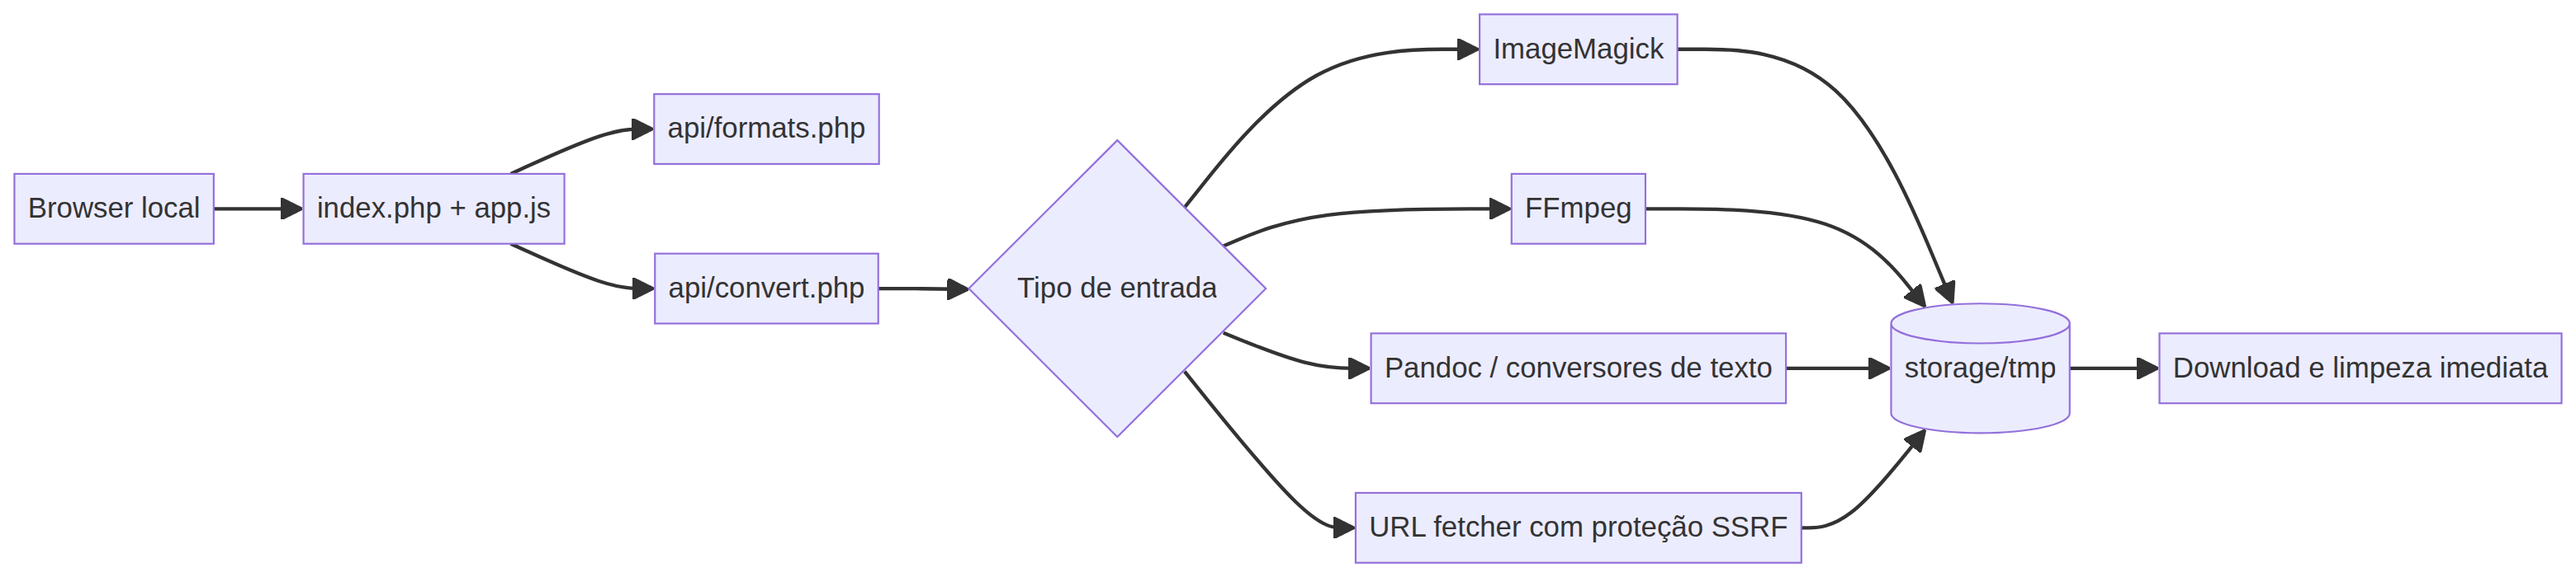
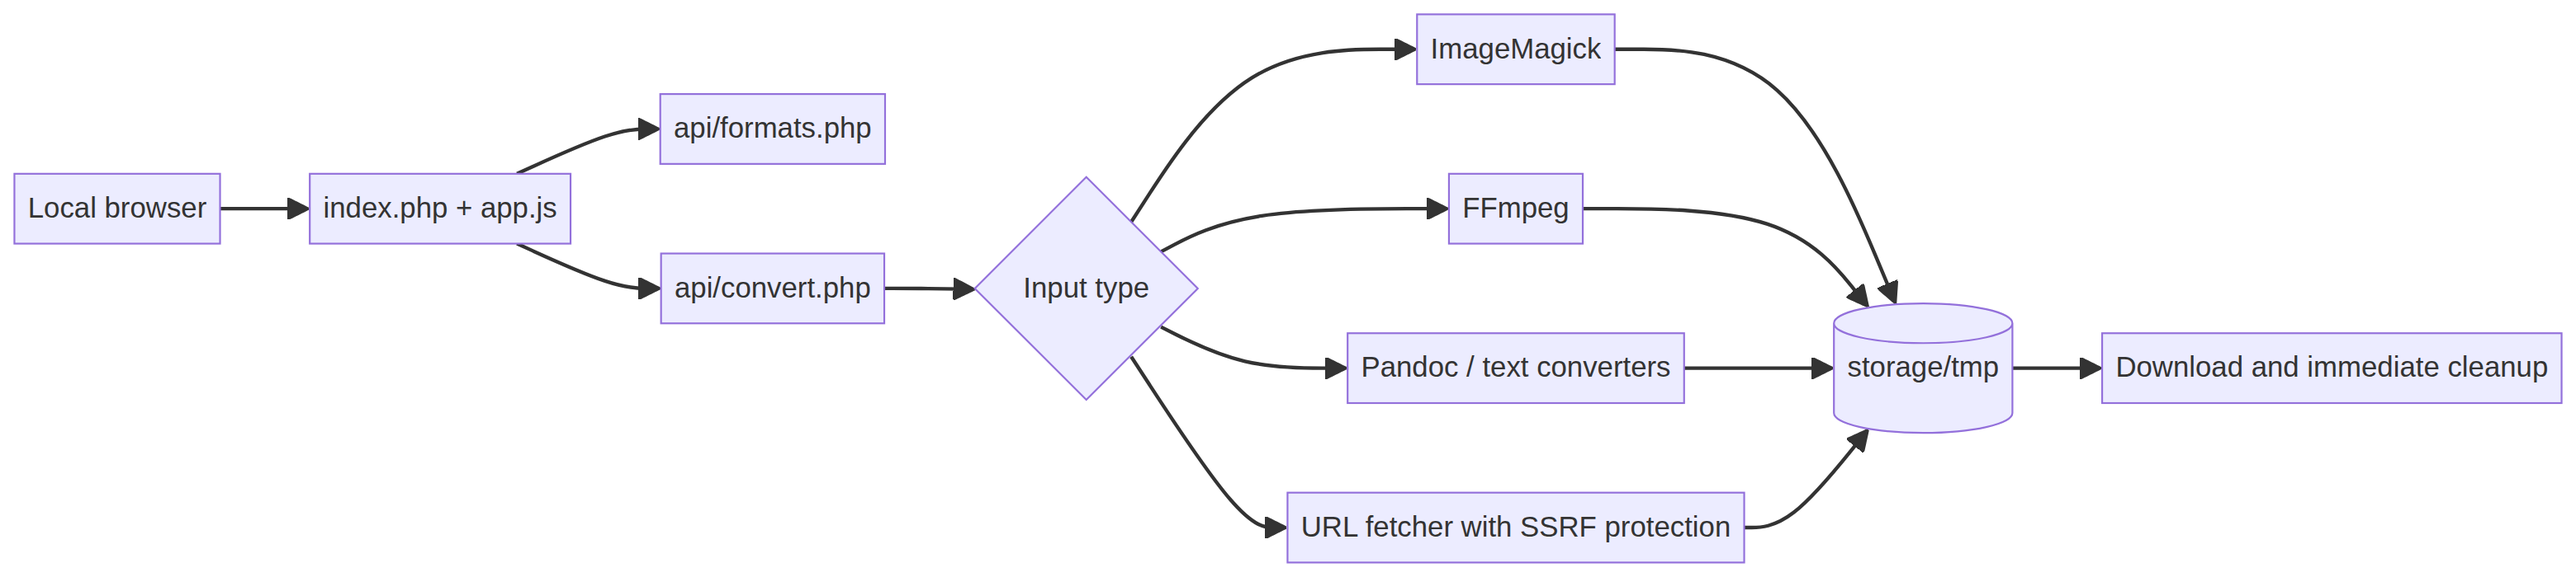
Translate architecture diagram to English

diff --git a/CHANGELOG.md b/CHANGELOG.md
@@ -6,6 +6,12 @@ All notable changes to UniversalConverter are documented in this file. This proj
 
 No unreleased changes yet.
 
+## [1.1.3] - 2026-09-23
+
+### Changed
+
+- Translated the architecture diagram labels to English so the visual documentation matches the English README and project documentation.
+
 ## [1.1.2] - 2026-09-23
 
 ### Fixed
@@ -64,7 +70,8 @@ No unreleased changes yet.
 - A maximum of five redirects and a 5 MiB URL-response limit.
 - Security headers and request-specific temporary-file cleanup.
 
-[Unreleased]: https://github.com/josepires-dev/UniversalConverter/compare/v1.1.2...HEAD
+[Unreleased]: https://github.com/josepires-dev/UniversalConverter/compare/v1.1.3...HEAD
+[1.1.3]: https://github.com/josepires-dev/UniversalConverter/compare/v1.1.2...v1.1.3
 [1.1.2]: https://github.com/josepires-dev/UniversalConverter/compare/v1.1.1...v1.1.2
 [1.1.1]: https://github.com/josepires-dev/UniversalConverter/compare/v1.1.0...v1.1.1
 [1.1.0]: https://github.com/josepires-dev/UniversalConverter/compare/v1.0.0...v1.1.0
